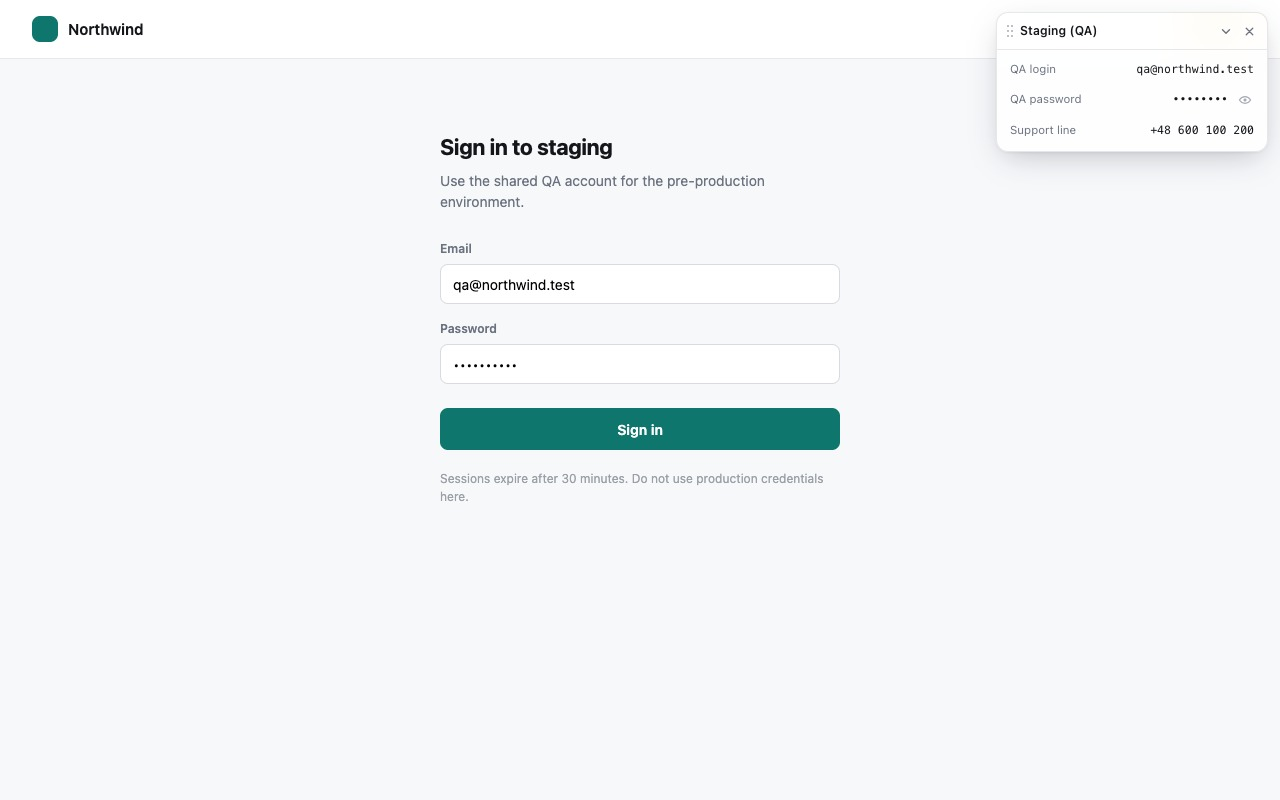
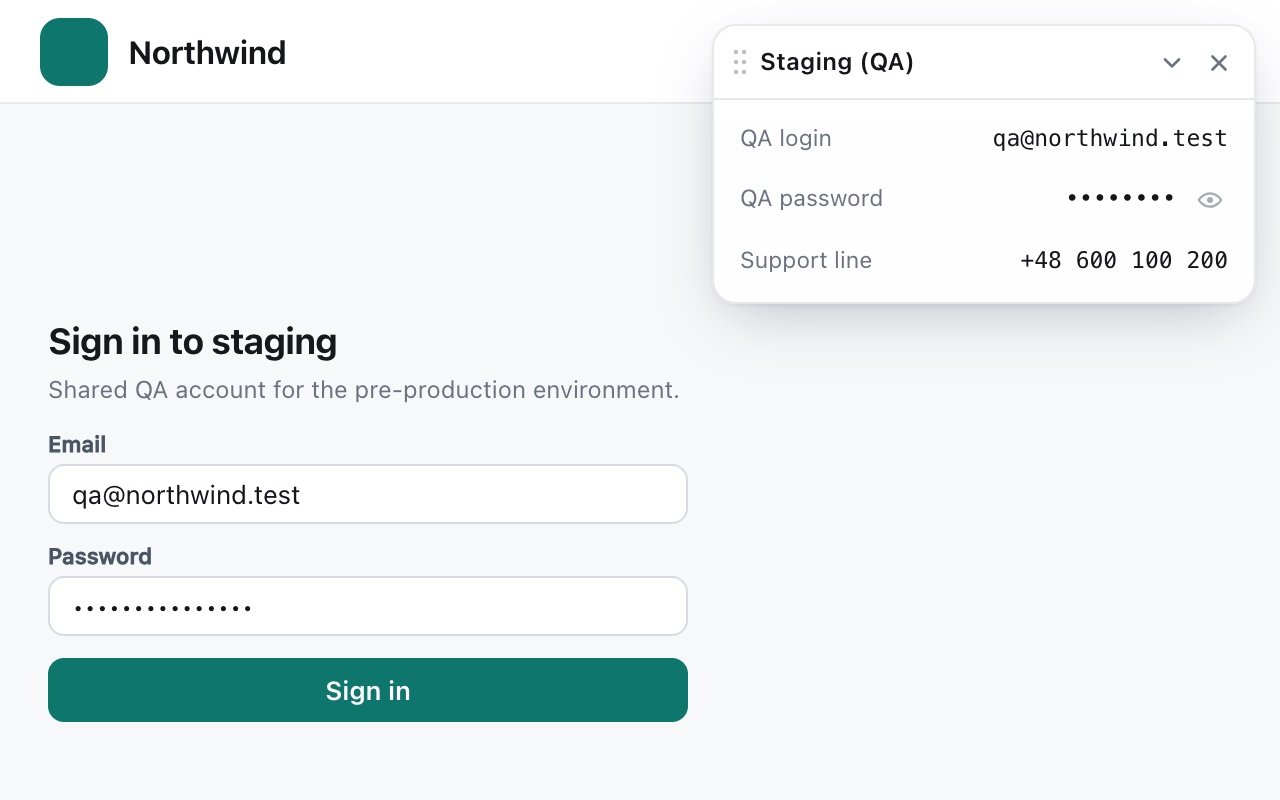
chore: adjust screenshots

diff --git a/PRODUCT.md b/PRODUCT.md
@@ -67,7 +67,7 @@ site — an instrument that lives on the page, not a popup or a manager app.
 - The **on-page card** is the user's named craft reference for the settings redesign: compact 272px
   panel, grip-dotted draggable header, hairline separators, muted 11.5px labels on the left,
   monospace values aligned right, quiet hover, one accent used only for state (copied, focus).
-- Store assets on hand: icon-128 (+ SVG), promo tiles, three screenshots.
+- Store assets on hand: icon-128 (+ SVG), promo tiles, five screenshots (card, Sites light and dark, Settings dark, Items dark).
 - Visual identity outside the card is documented in `DESIGN.md` ("The Quiet Instrument"): the card's
   world extended to the settings page, with one `light-dark()` pair per colour so both surfaces read
   one sheet.
@@ -75,8 +75,11 @@ site — an instrument that lives on the page, not a popup or a manager app.
 ## Evidence on Hand
 
 - `README.md` (behaviour, install, release process), `PRIVACY.md` (storage and permission honesty).
-- `store/screenshot-1-card.jpg` shows the card on a staging sign-in page; `store/screenshot-2-options.jpg`
-  and `store/screenshot-3-options-dark.jpg` show the settings page this pass replaces.
+- `store/screenshot-1-card.jpg` shows the card on a staging sign-in page, framed at 2×;
+  `store/screenshot-2-options.jpg` and `store/screenshot-3-options-dark.jpg` show the Sites view —
+  light and dark; `store/screenshot-4-settings-dark.jpg` and `store/screenshot-5-items-dark.jpg`
+  show the Views strip's Settings and Items tabs. All five were re-shot on 2026-09-22 against the
+  build that carries the Settings tab.
 - `store/promo-marquee.svg`, `store/promo-small.svg`, `store/icon-128.svg`.
 - Demo content used across the store art is synthetic (`qa@northwind.test`, "Staging (QA)",
   "+48 600 100 200"); there are no customers, testimonials, or benchmarks and none may be invented.

diff --git a/DESIGN.md b/DESIGN.md
@@ -767,11 +767,15 @@ rather than a documented rule.
 
 The store rasters keep their provenance and must not be silently regenerated:
 
-- `store/screenshot-2-options.jpg` and `store/screenshot-3-options-dark.jpg` were captured by this
-  build thread from the running extension on 2026-09-22, and show the settings page as recorded
-  here (light and dark).
-- `store/screenshot-1-card.jpg`, `store/promo-marquee-1400x560.jpg`,
-  `store/promo-small-440x280.jpg`, `store/icon-128.png` and the store SVGs pre-date this work.
+- All five `store/screenshot-*.jpg` were captured on 2026-09-22 from a build of this tree: `1-card`
+  shows the card on a staging sign-in page and is a 2× detail — a 640×400 viewport at a device pixel
+  ratio of 2, so the card is the subject rather than a corner of a wide page; `2-options` and
+  `3-options-dark` are the Sites view, light and dark; `4-settings-dark` and `5-items-dark` are the
+  Views strip's other two tabs. Each was rendered from the built bundles against a stubbed
+  `chrome.storage` (the store seeded with the synthetic Northwind content), not saved from a hand-
+  driven browser.
+- `store/promo-marquee-1400x560.jpg`, `store/promo-small-440x280.jpg`, `store/icon-128.png` and the
+  store SVGs pre-date this work.
 
 ## Do's and Don'ts
 
